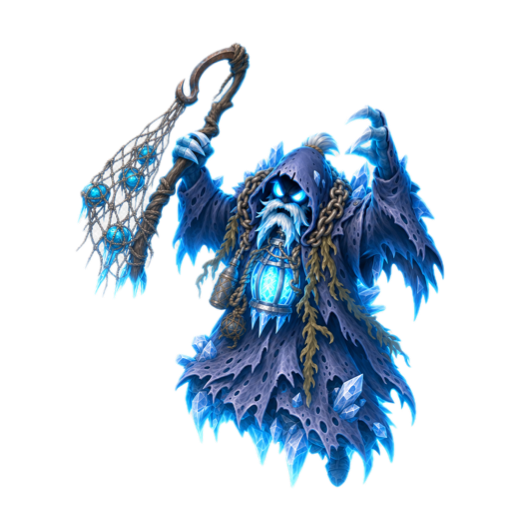
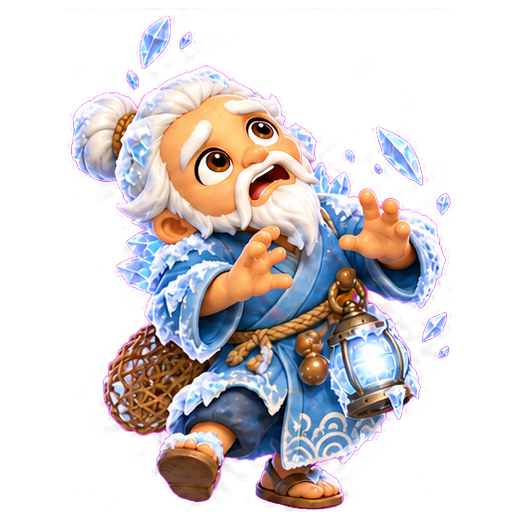
Level 1 boss (brief 41): the fisherman himself, turned to ice and afraid; his frozen figure thaws in three stages; Isla's call and his reach at the reunion

diff --git a/m92be43d0ac/index.html b/m92be43d0ac/index.html
@@ -2960,7 +2960,9 @@ ZOD.forEach(z => { load(z + 'y', `art4/a-${z}-y.png?v=8`); load(z + 'm', `art4/a
 ['f1', 'up', 'slam', 'dash', 'cast'].forEach(n => load('w-' + n, `art4/warden/${n}.png?v=8`));   // the Warden's poses
 // the five realm bosses, each with its idle pose and four attack poses, and its minion
 // (loaded when its level starts, so a run only fetches the one boss it will meet)
-function loadBoss(b) { if (IMG['bz-' + b]) return; load('bz-' + b, `art4/bosses/${b}.png?v=9`); for (const n of ['up', 'slam', 'dash', 'cast']) load(`bz-${b}-${n}`, `art4/bosses/${b}-${n}.png?v=9`); for (let n = 1; n <= 4; n++) load(`bz-${b}-w${n}`, `art4/bosses/${b}-w${n}.webp?v=1`); }
+// a realm boss repainted as the person inside, turned to ice (Codex brief 41, A approved 2026-10-10): new versions, walk frames as png
+const BOSS_V2 = { water:true };
+function loadBoss(b) { if (IMG['bz-' + b]) return; const v = BOSS_V2[b] ? 10 : 9; load('bz-' + b, `art4/bosses/${b}.png?v=${v}`); for (const n of ['up', 'slam', 'dash', 'cast']) load(`bz-${b}-${n}`, `art4/bosses/${b}-${n}.png?v=${v}`); for (let n = 1; n <= 4; n++) load(`bz-${b}-w${n}`, BOSS_V2[b] ? `art4/bosses/${b}-w${n}.png?v=10` : `art4/bosses/${b}-w${n}.webp?v=1`); }
 // every element sends its own creatures: a swarm creature (a), a specialist with its own trick (b) and a brute (c)
 const ROLE = { critter:'a', wolf:'b', golem:'c', minion:'m' };
 const KIND = {
@@ -8120,6 +8122,9 @@ function makeHearth(lv) {
   // Codex's brief 38 (2026-10-09): the Heartstone in four states, each workshop in four, the material, the dusk banner and the horn
   const A = (n, v = 1) => IMG[n] || load(n, `art4/hearth/${n}.png?v=${n.startsWith('hs-') || n.endsWith('-ruin') ? 2 : v}`)   // (briefs 39 and 40 repainted the stones and the ruins);
   for (const k of ['whole', 'hurt', 'frozen', 'surge']) A(`hs-${st.art}-${k}`);
+  if (BOSS_V2[worldOf()]) for (let k = 1; k <= 3; k++) A(`boss-${worldOf()}-ice${k}`);
+  if (worldOf() === 'water' && !IMG['b-fisher-reach']) load('b-fisher-reach', 'art4/b-fisher-reach.png?v=1');
+  if (C.reunion && !IMG['p-' + C.reunion.who + '-papa']) load('p-' + C.reunion.who + '-papa', `art4/people/p-${C.reunion.who}-papa.png?v=1`);
   for (const p of plots) for (const k of ['ruin', 'built', 'u1', 'u2']) A(`ws-${p.id}-${k}`);
   A('mat-' + C.mat); A('horn-' + (C.mat === 'shell' ? 'conch' : 'bamboo'));
   if (LM_ART && C.map) for (const L of C.map.lm) A('lm-' + (LM_PIC[L.id] || L.id));
@@ -8195,7 +8200,7 @@ function hearthTick(dt) {
     H.sq = Math.min(100, H.sq + .5 * dt);
     // he reaches the lamp, and his daughter knows him (A approved, 2026-10-10: her one word, the freed's only exception to "thank you")
     const B = S.boss; if (B && !B.dead && B.atStone && !H.papa && C.reunion) { H.papa = true; const q = (S.people || []).find(q => q.id === C.reunion.who && q.state === 'keeper');
-      if (q) { q.freedAt = S.t; q.fx = B.x < q.x ? -1 : 1; floatText(q.x, q.y - 150, C.reunion.word, '#FFFFFF', 28); SFX.heal && SFX.heal(); B.stagAt = S.t; } }
+      if (q) { q.papaAt = S.t; q.fx = B.x < q.x ? -1 : 1; floatText(q.x, q.y - 150, C.reunion.word, '#FFFFFF', 28); SFX.heal && SFX.heal(); B.stagAt = S.t; } }
     // minions down the lanes every 8 s, and every other time a frost-thrower too, so standing at home still can't win it
     if ((H.minT -= dt) <= 0) { H.minT = HH.minions[0]; H.minN = (H.minN || 0) + 1; const L = C.boss.lanes, el = S.boss ? S.boss.el : worldOf();
       for (let i = 0; i < HH.minions[1]; i++) H.q.push({ at:H.pt + i * .4, lane:L[i % L.length], el });
@@ -9458,7 +9463,7 @@ function draw() {
   for (const m of S.slams || []) if (!m.done) warnCircle(m.x, m.y, PRESS.r, Math.min(1, m.t / PRESS.wind));
   // the frozen people: an ice block in a soft ring whose band fills with the breath; once free they follow on their own feet
   for (const q of S.people || []) { const own = PEOPLE_ART.includes(q.id), pic = p => IMG['p-' + q.id + '-' + p];
-    if (own) { const pose = q.state === 'ice' ? 'ice' : S.t - (q.freedAt ?? -9) < .9 ? 'gasp' : q.tired ? 'tired' : q.castAt && S.t - q.castAt < .7 ? 'craft' : q.mv > .4 ? (Math.floor((S.t * 7 + q.ph)) % 2 ? 'run1' : 'run2') : q.state === 'keeper' ? 'hold' : 'run1';
+    if (own) { const pose = q.state === 'ice' ? 'ice' : S.t - (q.papaAt ?? -9) < 2.6 && ok(pic('papa')) ? 'papa' : S.t - (q.freedAt ?? -9) < .9 ? 'gasp' : q.tired ? 'tired' : q.castAt && S.t - q.castAt < .7 ? 'craft' : q.mv > .4 ? (Math.floor((S.t * 7 + q.ph)) % 2 ? 'run1' : 'run2') : q.state === 'keeper' ? 'hold' : 'run1';
       let im = ok(pic(pose)) ? pic(pose) : pic('run1'); if (!im || !ok(im)) continue; const sz = 124;
       // a frozen pose waiting on its repaint: their own figure, iced over and still, so no wrong face shows
       if (pose === 'ice' && ICE_HOLD.includes(q.id) && ok(pic('hold'))) im = frozenArt(pic('hold'), q.el);
@@ -12108,7 +12113,7 @@ const FREED = {
   earth:{ img:'b-free-earth', q:'I worried about everyone so much that I forgot to live.', alt:'The grandmother, freed, carrying a basket of buns.' },
   metal:{ img:'b-free-metal', q:'I held on to what I lost so tightly that nothing new could reach me.', alt:'The bell ringer, freed, holding a small bell.' }
 };
-const freedOf = el => { const f = FREED[el] || FREED.water; return ok(IMG[f.img]) ? f : { ...f, img:'b-fisher' }; };
+const freedOf = el => { const f = FREED[el] || FREED.water; if (S && S.hearth && el === 'water' && ok(IMG['b-fisher-reach'])) return { ...f, img:'b-fisher-reach' }; return ok(IMG[f.img]) ? f : { ...f, img:'b-fisher' }; };
 // each feeds the next
 const CYCLE = ['wood', 'fire', 'earth', 'metal', 'water'];
 // the third star: two thirds of the creatures freed with the element that beats theirs (a share, not a count: on
